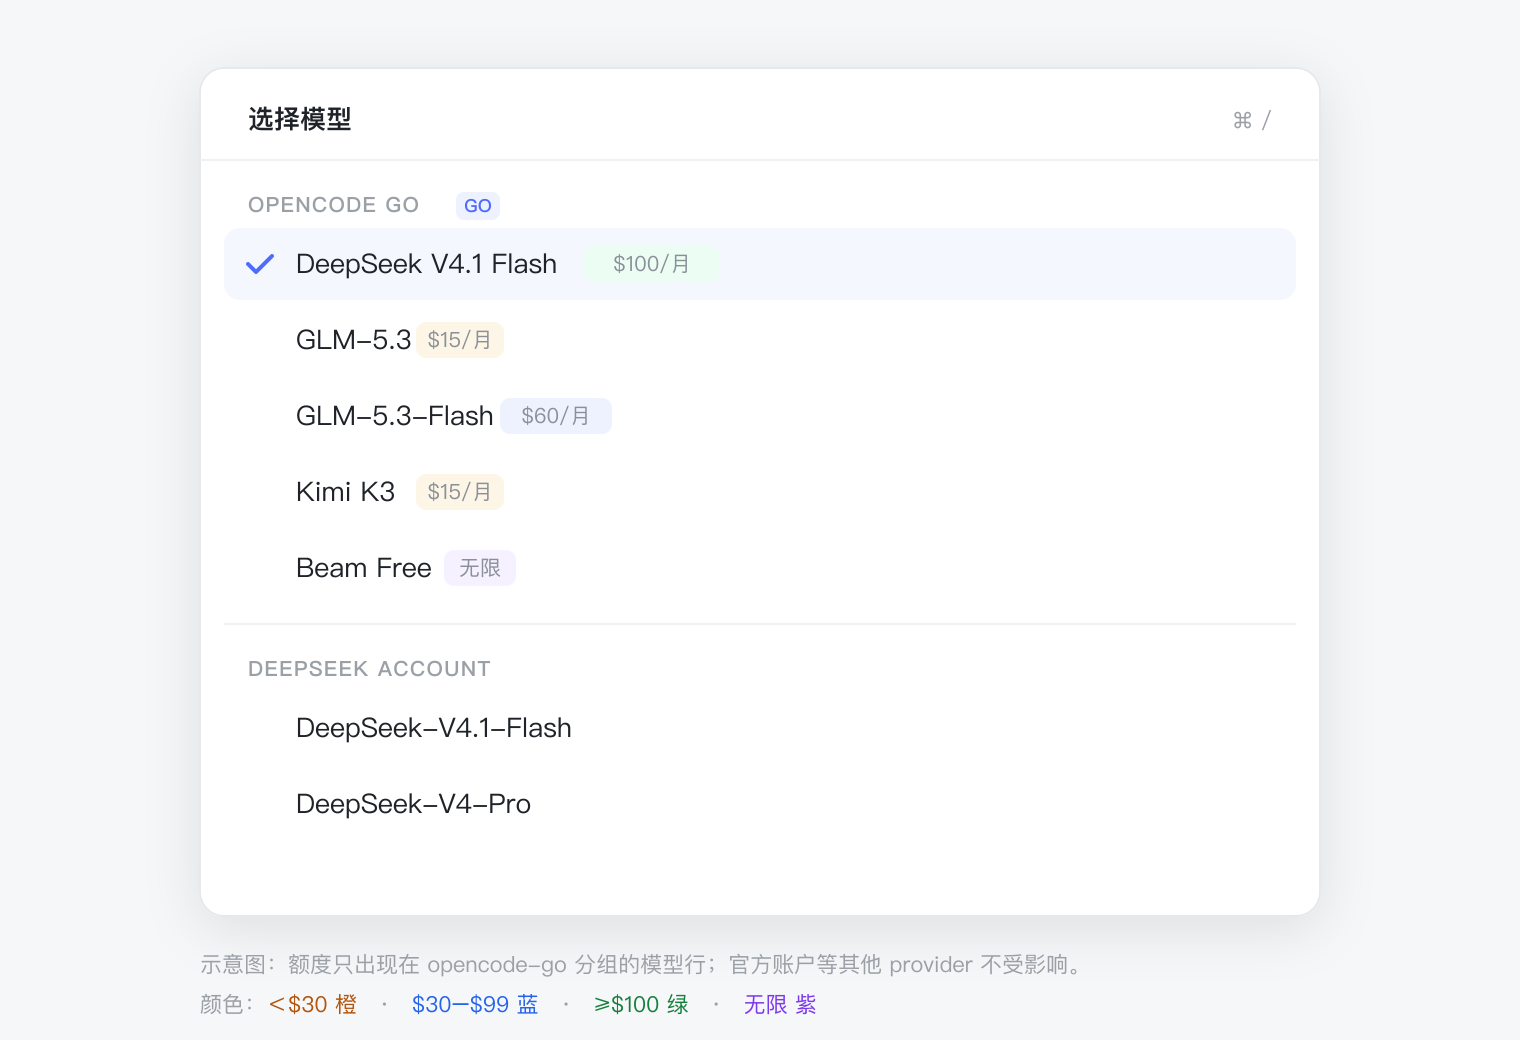
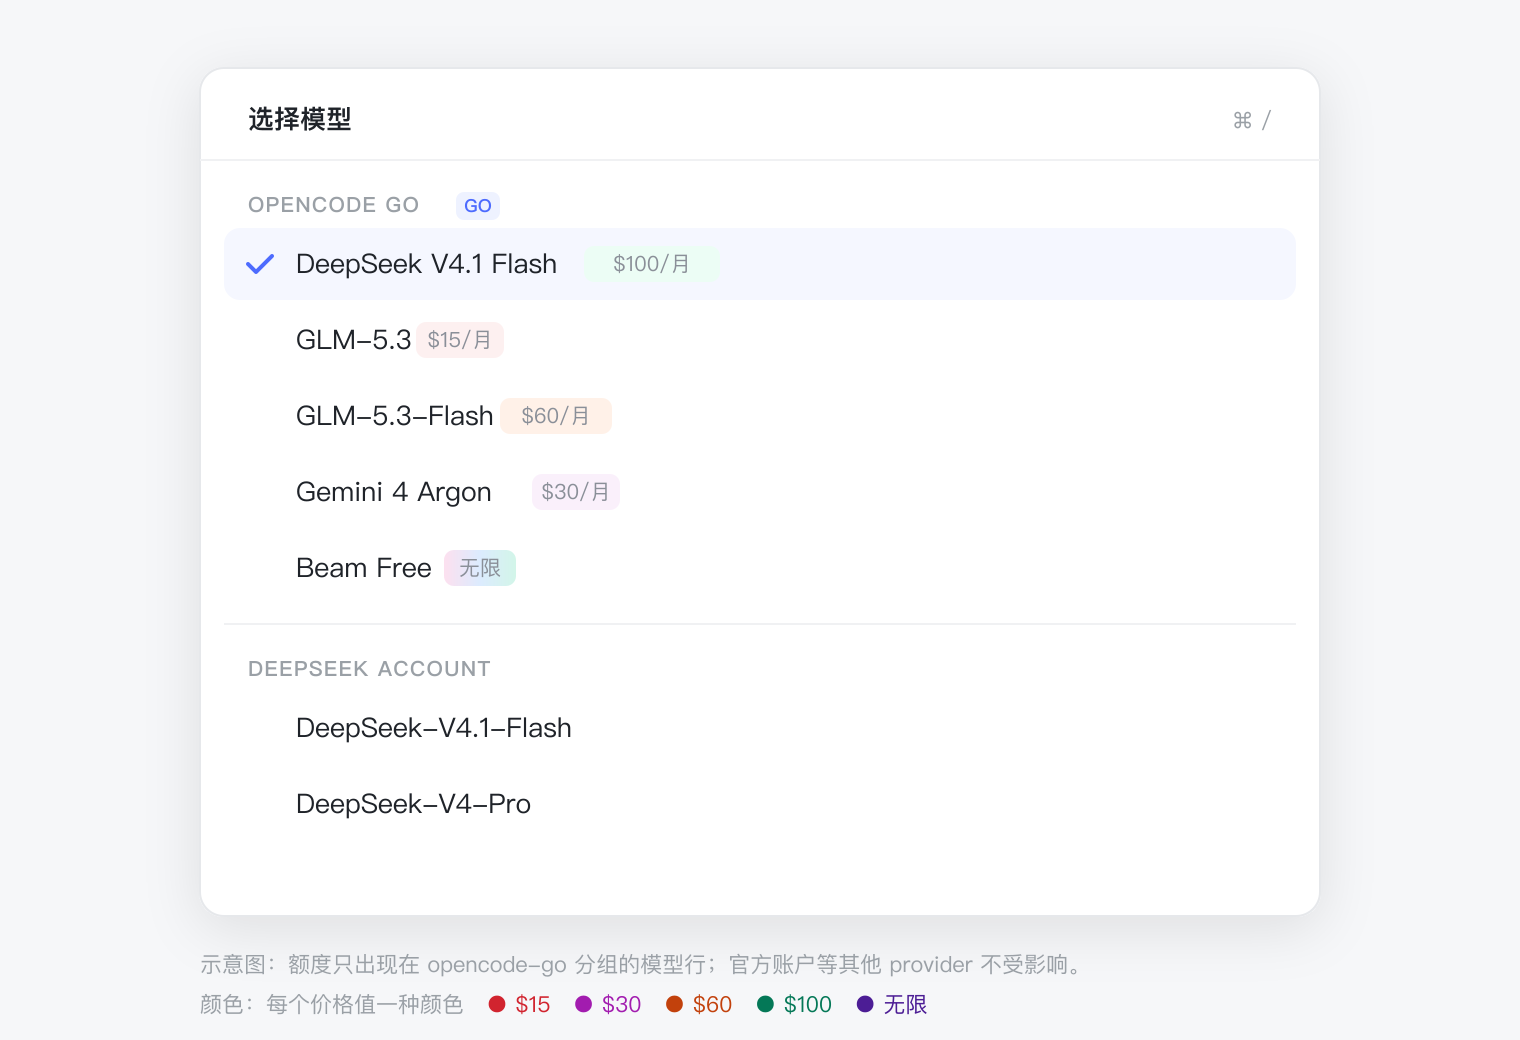
fix: give each monthly-limit value its own colour

Changed region(s): [[0.1546, 0.9538, 0.6184, 0.9846], [0.1855, 0.4308, 0.402, 0.4923], [0.3092, 0.5231, 0.3401, 0.5846]]

diff --git a/client.js b/client.js
@@ -63,6 +63,8 @@ window.__ModuleLoader__.load({
     const DEFAULT_PLAN = "go";
     const PLAN_ORDER = ["go", "go-plus", "go-teams"];
     const PLAN_LABELS = {"go": "Go", "go-plus": "Go Plus", "go-teams": "Go Teams"};
+    /** 所有出现过的价格值（升序）；每个值在客户端有独立颜色。 */
+    const PRICE_ORDER = [15, 20, 25, 30, 35, 60, 65, 80, 90, 100, 105, 120, 180, 200, 240];
     /** 兜底快照：Host 尚未返回线上数据时使用。 */
     const LIMITS = {
       "go": {
@@ -645,9 +647,29 @@ window.__ModuleLoader__.load({
     const LIMITS_META = {
       "source": "https://opencode.ai/docs/console/go.md",
       "modelsSource": "https://opencode.ai/inference/go/v1/models",
-      "generatedAt": "2026-11-09T03:00:21.381Z"
+      "generatedAt": "2026-11-09T03:28:17.466Z"
     };
     // <<< generated:limits
+
+    // 每个价格值一种颜色，顺序与 generated 区块的 PRICE_ORDER 一致。
+    // 15 个已知价格覆盖 Go / Go Plus / Go Teams 的全部档位；未知新价格回退到按值散列的色相。
+    const PRICE_PALETTE = [
+      { light: "#d1242f", dark: "#ff7b72" }, // 15
+      { light: "#1d4ed8", dark: "#93c5fd" }, // 20
+      { light: "#0f766e", dark: "#5eead4" }, // 25
+      { light: "#a21caf", dark: "#f0abfc" }, // 30
+      { light: "#7e22ce", dark: "#d8b4fe" }, // 35
+      { light: "#c2410c", dark: "#fdba74" }, // 60
+      { light: "#0e7490", dark: "#67e8f9" }, // 65
+      { light: "#4338ca", dark: "#a5b4fc" }, // 80
+      { light: "#b91c1c", dark: "#fca5a5" }, // 90
+      { light: "#047857", dark: "#6ee7b7" }, // 100
+      { light: "#be123c", dark: "#fda4af" }, // 105
+      { light: "#0369a1", dark: "#7dd3fc" }, // 120
+      { light: "#4d7c0f", dark: "#bef264" }, // 180
+      { light: "#6d28d9", dark: "#c4b5fd" }, // 200
+      { light: "#a16207", dark: "#fde047" }, // 240
+    ];
 
     const DICT = {
       zh: {
@@ -671,11 +693,10 @@ window.__ModuleLoader__.load({
     };
 
     const CSS = [
-      ".dsh-gml-limit{display:inline-block;margin-left:6px;padding:1px 5px;border-radius:5px;font-size:10.5px;line-height:14px;vertical-align:1px;white-space:nowrap;font-variant-numeric:tabular-nums;}",
-      ".dsh-gml-limit[data-tier=\"low\"]{color:var(--dsw-alias-state-warn-label,#b45309);background:rgba(230,162,60,.16);}",
-      ".dsh-gml-limit[data-tier=\"mid\"]{color:var(--dsw-alias-state-business-primary,#2563eb);background:rgba(77,107,254,.12);}",
-      ".dsh-gml-limit[data-tier=\"high\"]{color:var(--dsw-alias-state-success-primary,#15803d);background:rgba(34,197,94,.13);}",
-      ".dsh-gml-limit[data-tier=\"unlimited\"]{color:#8b5cf6;background:rgba(139,92,246,.14);}",
+      ".dsh-gml-limit{display:inline-block;margin-left:6px;padding:1px 5px;border-radius:5px;font-size:10.5px;line-height:14px;vertical-align:1px;white-space:nowrap;font-variant-numeric:tabular-nums;color:var(--dsh-gml-c-light,#8a8f98);background:rgba(127,127,127,.12);background:color-mix(in srgb,var(--dsh-gml-c-light,#8a8f98) 14%,transparent);}",
+      "@media (prefers-color-scheme:dark){.dsh-gml-limit{color:var(--dsh-gml-c-dark,#cbd5e1);background:color-mix(in srgb,var(--dsh-gml-c-dark,#cbd5e1) 20%,transparent);}}",
+      ".dsh-gml-limit[data-kind=\"unlimited\"]{color:#4c1d95;background:linear-gradient(90deg,rgba(244,114,182,.20),rgba(96,165,250,.20),rgba(52,211,153,.20));}",
+      "@media (prefers-color-scheme:dark){.dsh-gml-limit[data-kind=\"unlimited\"]{color:#ede9fe;}}",
       ".dsh-gml-badge{display:inline-block;margin:0 2px;padding:0 4px;border-radius:4px;font-size:10px;line-height:14px;vertical-align:1px;white-space:nowrap;color:var(--dsw-alias-label-secondary,#6b7280);background:var(--dsw-alias-bg-module-platform,rgba(127,127,127,.12));border:1px solid var(--dsw-alias-border-l1,rgba(127,127,127,.2));}",
     ].join("");
 
@@ -780,12 +801,14 @@ window.__ModuleLoader__.load({
       return t("tag.monthly", { amount: `$${entry.usd}` });
     }
 
-    /** 月度额度分档：高额度绿、中额度蓝、低额度橙、无限紫。 */
-    function tierOf(entry) {
-      if (entry.unlimited) return "unlimited";
-      if (entry.usd >= 100) return "high";
-      if (entry.usd >= 30) return "mid";
-      return "low";
+    /** 每个价格值取一个固定颜色；无限单独用渐变。 */
+    function colorOf(entry) {
+      if (entry.unlimited) return null;
+      const index = PRICE_ORDER.indexOf(entry.usd);
+      if (index >= 0 && index < PRICE_PALETTE.length) return PRICE_PALETTE[index];
+      // 官方新增了还没同步进 PRICE_ORDER 的价格：按值散列一个色相，避免所有新价格同色。
+      const hue = Math.round((Number(entry.usd) * 137.508) % 360);
+      return { light: `hsl(${hue} 60% 34%)`, dark: `hsl(${hue} 70% 68%)` };
     }
 
     /** 悬浮提示：当前套餐 + 三档对照 + 数据日期。 */
@@ -852,6 +875,7 @@ window.__ModuleLoader__.load({
         : undefined;
       // 只在可选择的模型行显示额度；trigger / 根菜单当前值保持干净。
       if (entry !== undefined && placement === "option") {
+        const color = colorOf(entry);
         children.push(
           " ",
           React.createElement(
@@ -859,7 +883,13 @@ window.__ModuleLoader__.load({
             {
               className: "dsh-gml-limit",
               key: "limit",
-              "data-tier": tierOf(entry),
+              "data-kind": entry.unlimited ? "unlimited" : "priced",
+              style: color === null
+                ? undefined
+                : {
+                    "--dsh-gml-c-light": color.light,
+                    "--dsh-gml-c-dark": color.dark,
+                  },
               title: tooltip(entry, model, t),
             },
             tagText(entry, t),

diff --git a/README.md b/README.md
@@ -28,7 +28,7 @@
 ## 为什么用它
 
 - **选模型前先看额度**：不用去 OpenCode 官网翻价格表，也不用记哪个模型是 `$15`、哪个是 `$100`。
-- **按额度分档上色**：`<$30` 橙、`$30–$99` 蓝、`≥$100` 绿、无限紫，一眼分清“小额度”和“大额度”。
+- **每个价格值一种颜色**：`$15`、`$30`、`$60`、`$100` … 各自独立配色，不按区间合并；`无限` 用渐变。
 - **只影响 GO 分组**：标签只出现在 `opencode-go` 的模型行；官方账户、其他 provider 的名字和 badge 原样保留。
 - **悬浮看三档**：Go / Go Plus / Go Teams 的额度一起列出，换套餐时不用重新查文档。
 - **自动跟进官方调整**：Host 启动后抓官方文档，缓存 6 小时；抓不到时用上次数据或内置快照。
@@ -71,7 +71,7 @@
 dsh plugin --profile desktop add github:skyrocks/dsh-go-model-limits
 
 # tarball（绝对路径）
-dsh plugin --profile desktop add /Users/you/Downloads/skyrocks-dsh-go-model-limits-0.1.0.tgz
+dsh plugin --profile desktop add /Users/you/Downloads/skyrocks-dsh-go-model-limits-0.1.1.tgz
 
 # 本地目录（开发调试）
 dsh plugin --profile desktop add /Users/you/dsh-go-model-limits
@@ -135,7 +135,7 @@ npm run check    # 只对比线上数据，不写文件
 | 根菜单的「模型」当前值 | 不显示额度 |
 | 模型 badge（如 Free / 新） | 保留原位置与样式（优先使用 DSH 的 Tag 组件） |
 | 未知/新模型（数据里没有） | 不显示标签，不影响其他行 |
-| 额度颜色 | `< $30` 橙、`$30–$99` 蓝、`≥ $100` 绿、`无限` 紫 |
+| 额度颜色 | 每个价格值一种颜色（不再按区间合并）；`无限` 用渐变 |
 
 ---
 

diff --git a/README.en.md b/README.en.md
@@ -30,8 +30,8 @@ no changed name, no changed badge.
 
 - **See the budget before switching**: no OpenCode dashboard, no pricing page, no guessing which
   model is `$15` and which is `$100`.
-- **Colour-coded by size**: `<$30` amber, `$30–$99` blue, `≥$100` green, unlimited violet —
-  small and large budgets are distinguishable at a glance.
+- **One colour per price**: `$15`, `$30`, `$60`, `$100` … each gets its own colour instead of a
+  shared band; `Unlimited` uses a gradient.
 - **GO rows only**: tags appear on `opencode-go` models; official account and other providers keep
   their original name and badge.
 - **All three plans on hover**: Go, Go Plus and Go Teams limits together, so a plan change does not
@@ -78,7 +78,7 @@ no changed name, no changed badge.
 dsh plugin --profile desktop add github:skyrocks/dsh-go-model-limits
 
 # tarball (absolute path)
-dsh plugin --profile desktop add /Users/you/Downloads/skyrocks-dsh-go-model-limits-0.1.0.tgz
+dsh plugin --profile desktop add /Users/you/Downloads/skyrocks-dsh-go-model-limits-0.1.1.tgz
 
 # local directory (development)
 dsh plugin --profile desktop add /Users/you/dsh-go-model-limits
@@ -144,7 +144,7 @@ Each tooltip states the current source: `live`, `refresh failed, using last data
 | Root menu current value | No tag |
 | Model badge (e.g. Free / New) | Kept in its original position and style (prefers DSH's Tag component) |
 | Unknown / new model (not in data) | No tag; other rows unaffected |
-| Tag colour | `< $30` amber, `$30–$99` blue, `≥ $100` green, `Unlimited` violet |
+| Tag colour | One colour per distinct price value (no shared bands); `Unlimited` uses a gradient |
 
 ---
 

diff --git a/PUBLISHING.md b/PUBLISHING.md
@@ -8,7 +8,7 @@
 - 包名：`@skyrocks/dsh-go-model-limits`
 - 仓库名：`dsh-go-model-limits`
 - 插件行 id：`go-model-limits`
-- 版本：`0.1.0`
+- 版本：`0.1.1`
 
 ## 2. 发布前检查
 
@@ -36,7 +36,7 @@ ls -l docs/preview-menu.png docs/preview-tooltip.png
 ```sh
 git remote add origin git@github.com:skyrocks/dsh-go-model-limits.git
 git push -u origin main
-git push origin v0.1.0
+git push origin v0.1.1
 ```
 
 如果机器上没登录过 GitHub CLI：
@@ -44,15 +44,15 @@ git push origin v0.1.0
 ```sh
 gh auth login
 gh repo create skyrocks/dsh-go-model-limits --public --source=. --remote=origin --push
-git push origin v0.1.0
+git push origin v0.1.1
 ```
 
 ## 4. Release
 
 ```sh
-npm pack                    # 生成 skyrocks-dsh-go-model-limits-0.1.0.tgz
-gh release create v0.1.0 ./skyrocks-dsh-go-model-limits-0.1.0.tgz \
-  --title "v0.1.0" --generate-notes
+npm pack                    # 生成 skyrocks-dsh-go-model-limits-0.1.1.tgz
+gh release create v0.1.1 ./skyrocks-dsh-go-model-limits-0.1.1.tgz \
+  --title "v0.1.1" --generate-notes
 ```
 
 也可以在网页上创建 Release，正文直接用 `CHANGELOG.md` 的对应段落。

diff --git a/CHANGELOG.md b/CHANGELOG.md
@@ -4,6 +4,13 @@ All notable changes to this project are documented here.
 The format follows [Keep a Changelog](https://keepachangelog.com/en/1.1.0/),
 and this project adheres to [Semantic Versioning](https://semver.org/).
 
+## [0.1.1] - 2026-11-09
+
+### Changed
+
+- Colour every distinct monthly-limit value separately instead of four shared ranges, so `$30`
+  and `$60` no longer render in the same colour. `Unlimited` keeps a dedicated gradient.
+
 ## [0.1.0] - 2026-11-09
 
 ### Added
